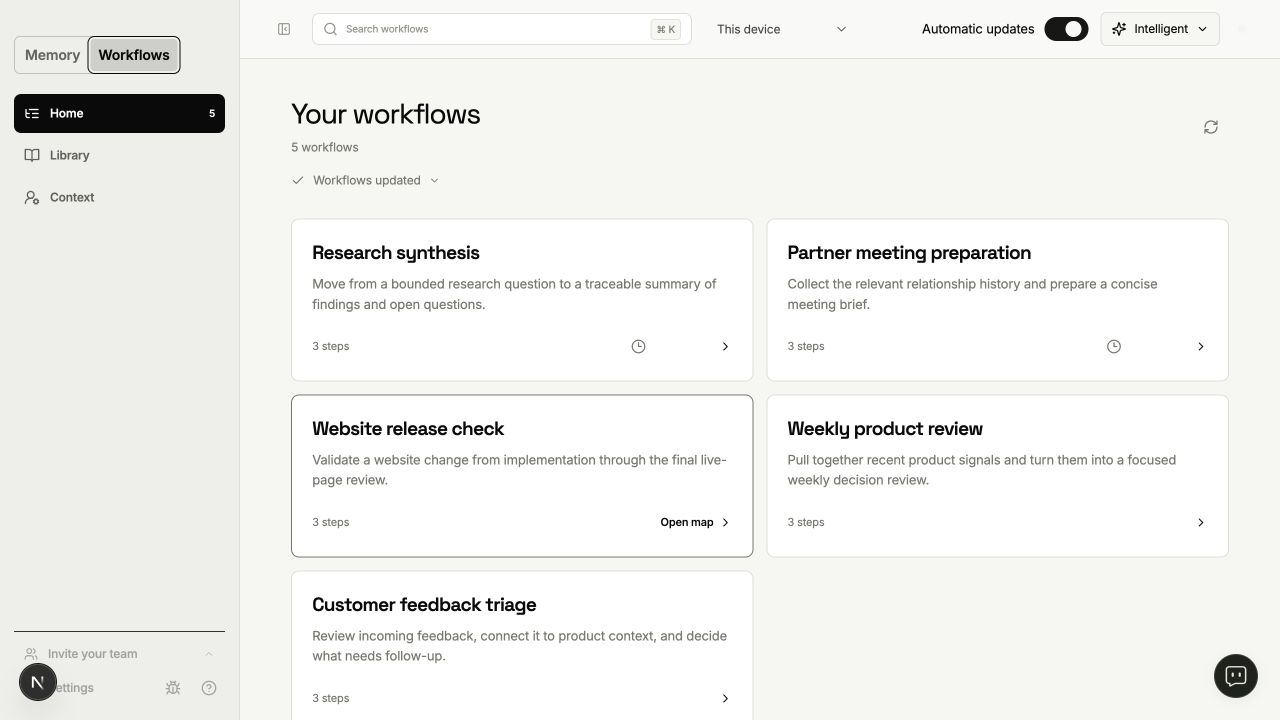
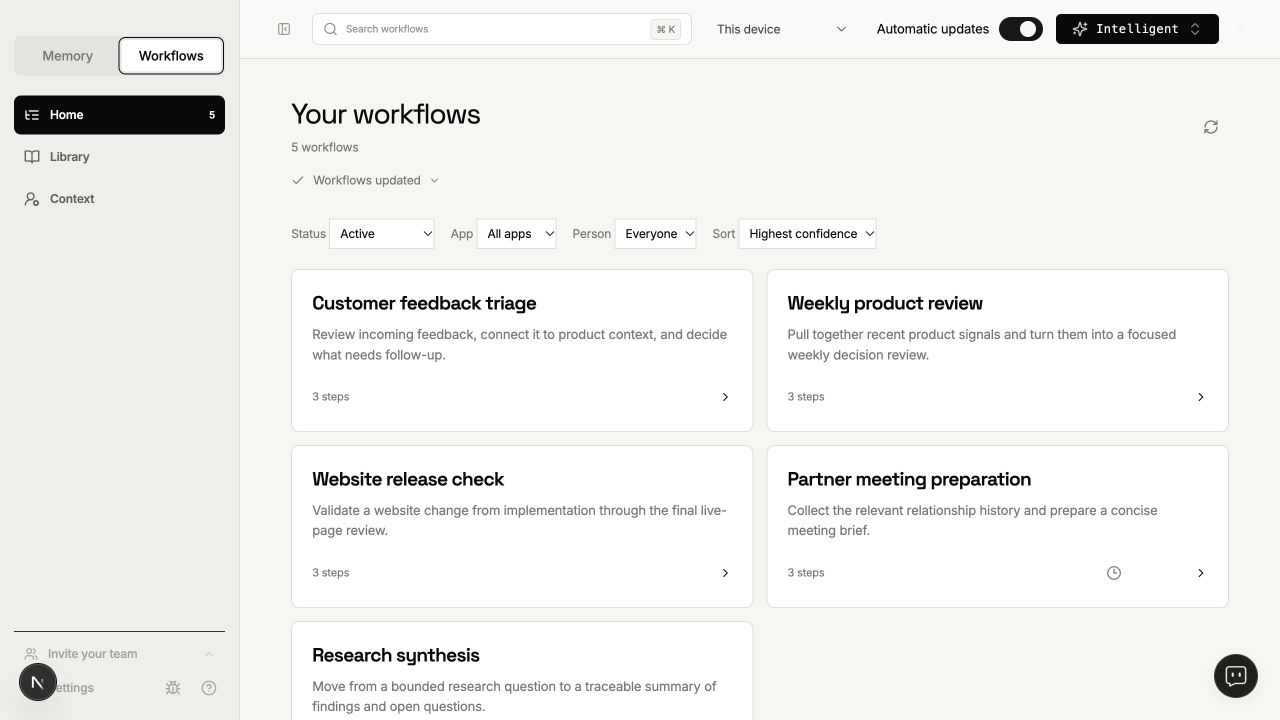
Refine workspace toggle spacing and selected states

diff --git a/apps/screenpipe-app-tauri/components/workflows/product-switcher.tsx b/apps/screenpipe-app-tauri/components/workflows/product-switcher.tsx
@@ -21,7 +21,7 @@ export function ProductSwitcher({ mode, onChange, compact = false }: {
     <div
       role="group"
       aria-label={ui("Switch workspace")}
-      className="inline-flex max-w-full items-center gap-0.5 rounded-md border border-[color-mix(in_srgb,currentColor_20%,transparent)] p-0.5"
+      className="grid w-full grid-cols-2 gap-1 rounded-md bg-[color-mix(in_srgb,currentColor_5%,transparent)] p-1"
     >
       {([
         ["screenpipe", ui("Memory")],
@@ -33,11 +33,11 @@ export function ProductSwitcher({ mode, onChange, compact = false }: {
           aria-pressed={mode === value}
           onClick={() => { if (mode !== value) onChange(value); }}
           className={cn(
-            "min-w-0 rounded-sm px-2 py-1.5 font-semibold text-inherit transition-colors focus-visible:outline focus-visible:outline-1 focus-visible:outline-offset-2 focus-visible:outline-current",
-            compact ? "text-xs" : "text-sm",
+            "min-w-0 rounded-sm px-3 py-1.5 font-medium leading-5 text-inherit transition-colors focus-visible:outline focus-visible:outline-1 focus-visible:outline-offset-2 focus-visible:outline-current",
+            compact ? "text-xs" : "text-[13px]",
             mode === value
-              ? "bg-[color-mix(in_srgb,currentColor_14%,transparent)]"
-              : "opacity-60 hover:bg-[color-mix(in_srgb,currentColor_8%,transparent)] hover:opacity-100",
+              ? "bg-[var(--panel,color-mix(in_srgb,currentColor_10%,transparent))]"
+              : "opacity-50 hover:bg-[color-mix(in_srgb,currentColor_4%,transparent)] hover:opacity-100",
           )}
         >
           {title}
